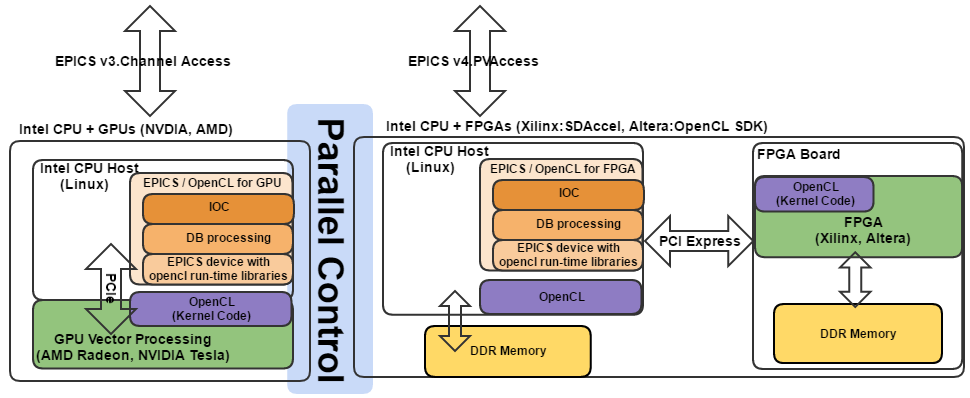
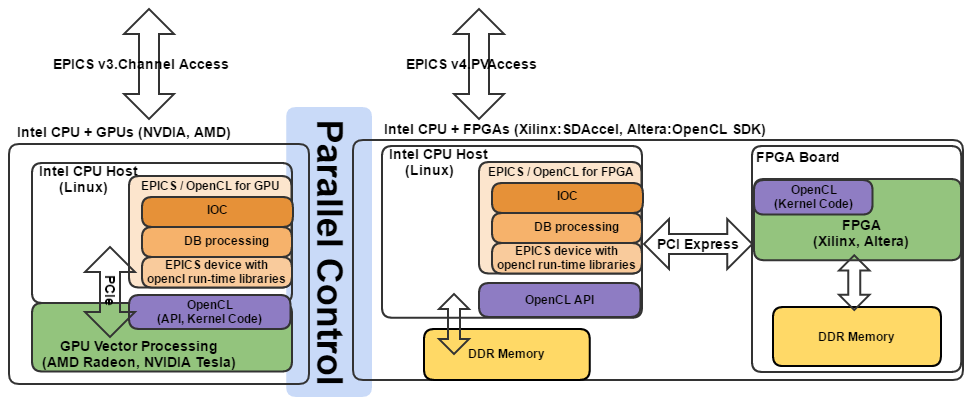
Editing...

diff --git a/TechNote/RT2016/CRX_Control Monitoring Test and Real Time Diagnostics Systems_88.tex b/TechNote/RT2016/CRX_Control Monitoring Test and Real Time Diagnostics Systems_88.tex
@@ -99,14 +99,17 @@ EPICS IOC is being implemented using the libiio library that abstracted the low-
 %\cleardoublepage
 \section{Parallel Processing Environment}
 \subsection{Zynq Evaluation Board}
-The ZC706 evaluation board for All Programmable SoC (AP SoC) provides a hardware environment for developing and evaluating designs targeting the Zynq®-7000 AP SoC.\cite{zc706-doc} The ZC706 board has the SMA port which is the programmable user clock for the TTL out signal of the EVR timing board. The reason which selected the board is to have the user clock port to receive input from the external trigger.
+The ZC706 evaluation board for All Programmable SoC (AP SoC) provides a hardware environment for developing and evaluating designs targeting the Zynq-7000 AP SoC. The ZC706 board has the SMA port which is the programmable user clock for the TTL out signal of the EVR timing board. The reason which selected the board is to have the user clock port to receive input from the external trigger.
+
 \subsection{Controller for Motor Drive}
-Figure~\ref{controller} shows the controller and low voltage drive board of the Analog Devices to drive the motor. Controller board communicates with ZC706 via FPGA Mezzanine Card (FMC) connector. FMC connector of the controller board is connected to XADC interface, digital I/O and sensors, two gigabit ethernet modules, power line and so on. XADC and digital I/O signals among those connections are delivered to the low voltage drive board via the drive board connector. The low voltage drive board received those signals generates Pulse Width Modulation (PWM) signal through the MOSFET gate driver and drives the stepper motor. The low voltage drive board is operated in 12${\sim}$24V DC power from the external power source.
+As shown Figure~\ref{control_system}, controller board communicates with ZC706 via FPGA Mezzanine Card (FMC) connector. FMC connector of the controller board is connected to XADC interface, digital I/O and sensors, two gigabit ethernet modules, power line and so on. XADC and digital I/O signals among those connections are delivered to the low voltage drive board via the drive board connector. The low voltage drive board received those signals generates Pulse Width Modulation (PWM) signal through the MOSFET gate driver and drives the stepper motor. The low voltage drive board is operated in 12${\sim}$24V DC power from the external power source.
+
 \subsection{FPGA Interface}
-reuses the Hardware Description Lanaguage (HDL) code which is provided by the Analog Devices. FPGA HDL code is develeped by VerilogHDL using Vivado of Xilinx. When the motor controller was purchased from Analog Devices, it operated on ZedBoard. It should be changed to operate the ZC706 board as well as ZedBoard. It is going to transplant the code of ZedBoard into ZC706 board. In addition, It is being implemented FPGA code to drive the motor receiving the input signals (EVR TTL signals) via user clock port of ZC706 board.
+FPGA code reuses the Hardware Description Lanaguage (HDL) code which is provided by the Analog Devices. FPGA HDL code is develeped by VerilogHDL using Vivado of Xilinx. When the motor controller was purchased from Analog Devices, it operated on ZedBoard. It should be changed to operate the ZC706 board as well as ZedBoard. It is going to transplant the code of ZedBoard into ZC706 board.
 
 \hfill\break
 TABLE \ref{sw-conf} 은 
+
 \begin{table}[h!t]
 	%	\setlength\tabcolsep{3.8pt}
 	\centering
@@ -132,15 +135,6 @@ TABLE \ref{sw-conf} 은
 		& In-house code                         &                       \\
 		
 		\hline
-		VxWorks      & Real-time OS for VME                  & Timing                \\
-		& including BSP                         &                       \\         
-		MRFIOC2      & EPICS IOC for timing                  &                       \\
-		
-		\hline
-		SRSIOC       & IOC for rubidium clock                &                       \\
-		
-		\hline
-		Workbench    & Workbench3.3 for VxWorks              & Development           \\
 		Vivado       & Vivado14.4 including SDK              & Tool                  \\        
 		& with node lock license                &                       \\            
 		Busybox      & for rootfs system (free)              &                       \\
@@ -187,17 +181,14 @@ OpenCL\cite{opencl} is a framework or programming model for writing programs tha
 	\label{opencl_control_system}
 \end{figure}
 Hardware manufacturer must provide application program interface libraries to satisfy the specification according to OpenCL version. Fig.\ref{opencl_control_system} shows the configuration of the unified interface layer for the parallel processing of GPU (NVIDIA or AMD) and FPGA (Xilinx or Altera) using OpenCL. The data interface between the parallel processing hardware and the host make up with PCI Express (PCIe) bus. This configuration for the FPGA hardware is required the DDR memory separately. The GPU already uses the built-in DDR memory. Eventually the kernel code of OpenCL is performed as parallel processing code through OpenCL interface API. The integration of the OpenCL code and the EPICS IOC code means the integration of the distributed system and parallel system.
-\subsection{EPICS v4 PV Access}
-EPICS v3 is not enough to hold the contents of the much more complex scientfic data structure. 
+\subsection{EPICS Version 4}
+EPICS v3 is not enough to hold the contents of the much more complex scientfic data structure like a image data.
+Reflecting this requirement, EPICS v4\cite{epics_v4} provides efficient storage, access, and communication, of memory resident structured data. The EPICS v4 Normative Types\cite{epics_v4_normative} are a collection of structured data types that can be used by the application level of EPICS V4 network endpoints, to interoperably exchange scientific data. Adopting EPICS v4 as the distributed system it will be interfaced large amounts of data and complex data to be processed in the parallel processing of a variety of experimental devices.
 
-%병렬 처리에서 처리되는 대량의 데이터 및 복잡한 데이터를 
 \section{Conclusion}
-%가속기, 핵융합, 천체 망원경과 같은 거대 과학 실험 장치는 그 특성상 분산된 이기종 제어 장치들의 통일성이 요구되며, 특정 장치에 대해서는 빠른 응답성이 요구된다. 더욱이 이 두가지 요구사항은 동시에 만족되어야 한다.TCP/UDP/IP protocol Ethernet-based EPICS middleware framework는 여러 이기종 제어장치들을 하나의 단일 제어시스템으로 구현할 수 있는 환경을 제공한다.
-% 또한 향 후에는 OpenCL를 이용하여 특정 하드웨어들에 대한 병렬처리 부분에 대한 추상화 layer를 제공하고 EPICS와 통합할 수 있을 것으로 생각된다.
+%다양한 이기종형태의 병렬처리 Hardware의 사용을 위해 단일화된 software abstract layer에 대한 요구사항 증가 할 것으로 보인다.
 
-If the distributed control system using EPICS makes a connection with the high speed parallel processing of FPGA, it is possible to improve the performance and efficiency of the control system. Zynq SoC can be considered as an ideal device to implement this high-speed control system.
-
-Utilizing the OpenCL standard on an FPGA may offer significantly higher performance and at much lower power than is available today from hardware architectures (CPU, GPUs, etc). In addition, an FPGA-based heterogeneous system (CPU + FPGA) using the OpenCL standard has a significant time-to-market advantage compared to traditional FPGA development using lower level hardware description languages (HDLs) such as Verilog or VHDL. Altera joined The Khronos Group in 2010 and is an active contributor to the standard. To stay up to date on Altera’s OpenCL program for FPGAs, please register at www.altera.com/opencl.
+The big scientific experiment facilities such as accelerators, nuclear fusion, and telescope are  required by the unity of the heterogenous distributed control system and the fast response  according to its characteristic. These requirements for the distributed and parallel environments must be satisfied at the same time. If the distributed control system using EPICS makes a connection with the high speed parallel processing of FPGA, it is possible to improve the performance and efficiency of the control system. Zynq SoC can be considered as an ideal device to satisfy with the distributed and high-speed parallel control system at the same time. More and more, the control environment of devices used in the big science experiment of the future will be used the distributed processing environment combined with the parallel processing environment. Therefore, it expect to be increased the requirements for the unified software abstraction layer to operate the heterogenous parallel proccessing hardwares. Utilizing the OpenCL standard on the heterogeneous parallel processing hardwares may offer significantly higher performance and the unified abastract layer at much lower power.
 
 % use section* for acknowledgement
 \section*{Acknowledgment}
@@ -253,10 +244,13 @@ Industrial I/O Document website, https://wiki.analog.com/resources/tools-softwar
 \bibitem{sdsoc}
 SDSoC Document, http://www.xilinx.com/support/documentation/sw\_manuals/xilinx2016\_1/ug1146-sdsoc-platforms-and-libraries.pdf
 
+
+\bibitem{epics_v4}
+EPICS Version 4, http://epics-pvdata.sourceforge.net/
+
+\bibitem{epics_v4_normative}
+EPICS Version 4 Normative Types, http://epics-pvdata.sourceforge.net/docbuild/normativeTypesCPP/tip/documentation/ntCPP.html
 \end{thebibliography}
-
-
-
 
 % that's all folks
 \end{document}
